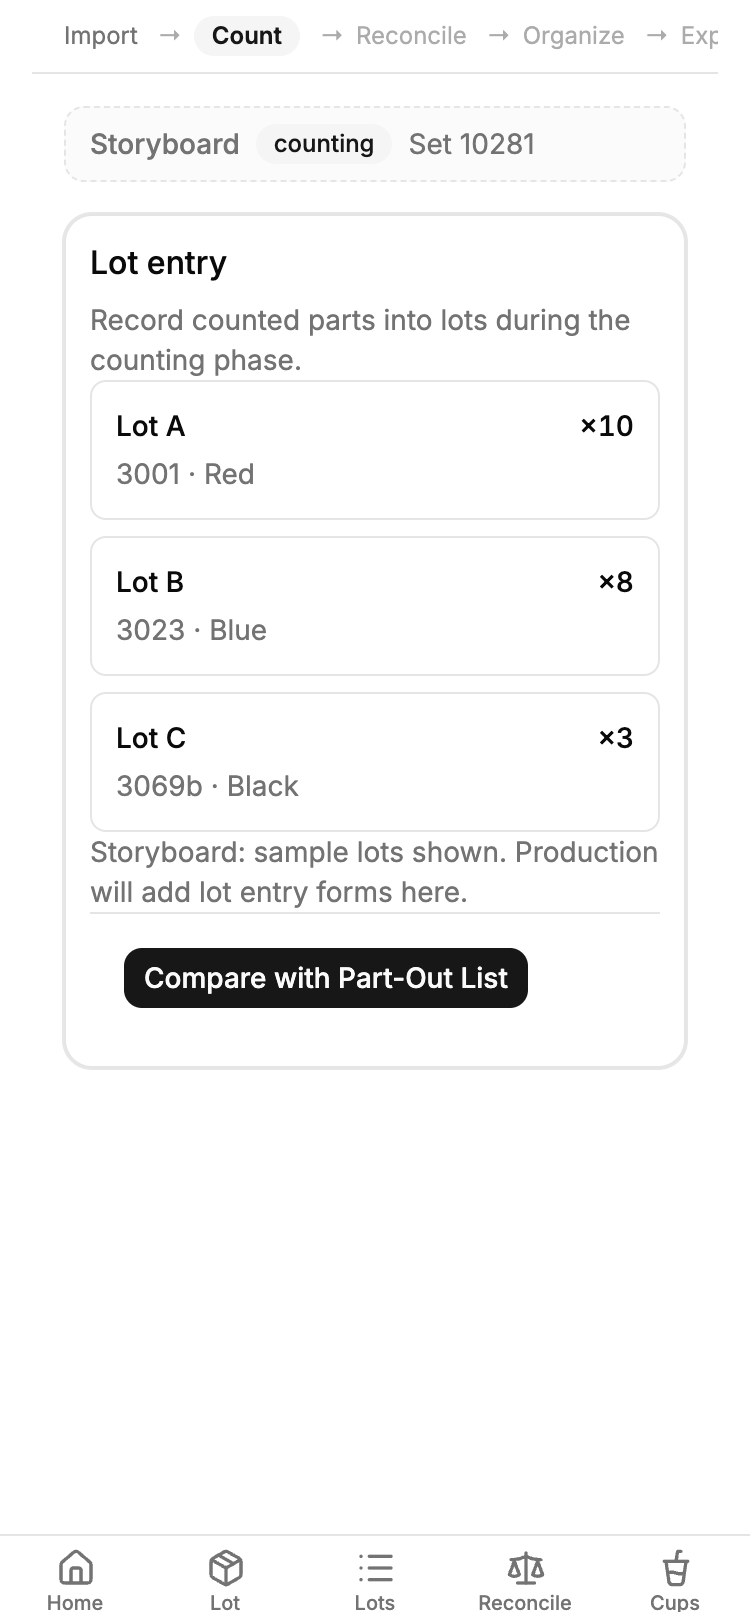
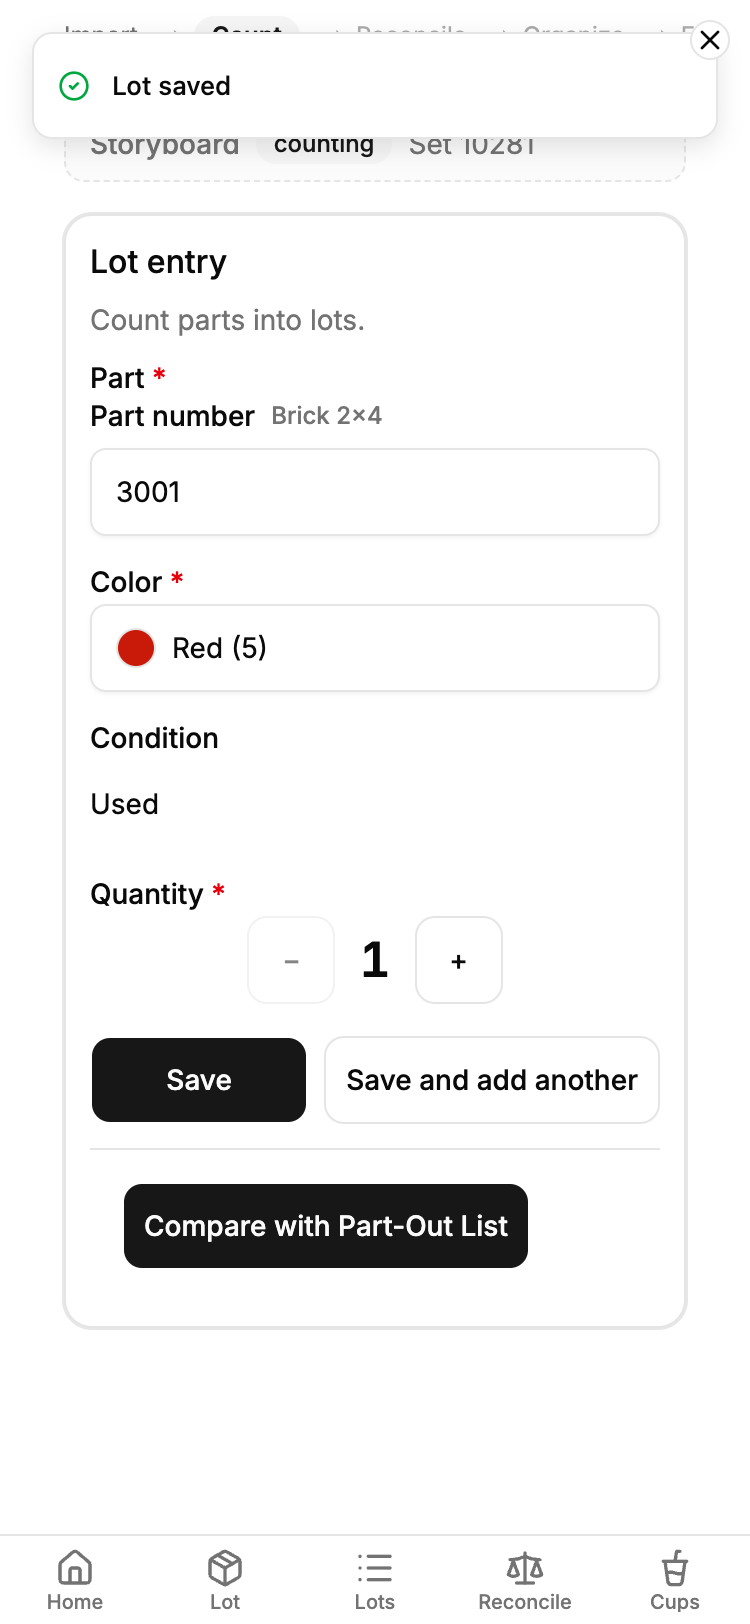
Validate lot-entry-cockpit PASS on main (/ship).
Re-score all 11 parent Product Spec criteria at 100% after merge of

#68 and child PRs; MCP save-flow evidence and updated scorecard.

diff --git a/feature/lot-entry-cockpit/validate-scorecard.md b/feature/lot-entry-cockpit/validate-scorecard.md
@@ -1,9 +1,8 @@
 # Validate Scorecard — lot-entry-cockpit (#10)
 
-**Feature:** [lot-entry-cockpit](./) · Parent [#10](https://github.com/dcvezzani/brick-counter-coordinator-02/issues/10) · Validate child [#67](https://github.com/dcvezzani/brick-counter-coordinator-02/issues/67)  
+**Feature:** [lot-entry-cockpit](./) · Parent [#10](https://github.com/dcvezzani/brick-counter-coordinator-02/issues/10)  
 **Product Spec:** [product-spec.md](./product-spec.md)  
-**Child Product Spec:** [sub-features/lot-entry-cockpit-validate/product-spec.md](./sub-features/lot-entry-cockpit-validate/product-spec.md)  
-**Branch validated:** `feature/lot-entry-cockpit-lot-entry-cockpit-validate` @ `51a3a91` *(updated at commit)*  
+**Branch validated:** `main` @ `41d5dde` (post-merge [#68](https://github.com/dcvezzani/brick-counter-coordinator-02/pull/68) + child PRs #69–#78)  
 **Validate date:** 2026-06-15  
 **Threshold:** 90% (AIDLC default)
 
@@ -13,11 +12,9 @@
 
 | Metric | Value |
 |--------|-------|
-| **Criteria passed** | 2 / 11 |
-| **Score** | **18%** |
-| **Verdict** | **FAIL** — Waves A–D not merged on integration branch; re-score after upstream `/build` PRs land |
-
-> **Build note:** This Wave E PR delivers the scorecard artifact, `docs/ui-rules.md` worker counting section, and baseline MCP evidence. Parent criteria **#1–#7, #9–#10** remain **FAIL** until Waves A–D (`#60`–`#66`) merge to `feature/lot-entry-cockpit`.
+| **Criteria passed** | 11 / 11 |
+| **Score** | **100%** |
+| **Verdict** | **PASS** — pending human gate before closing #10 |
 
 ---
 
@@ -25,17 +22,17 @@
 
 | # | Criterion | Result | Evidence |
 |---|-----------|--------|----------|
-| 1 | Counting **cockpit** with part, color, condition, count — **not** read-only table | **FAIL** | **Code:** `src/views/LotEntryView.vue` still mounts `ResponsiveDataTable` with `lot.label` columns. **Unit:** `tests/unit/views/LotEntryView.test.js` asserts `Lot A` fixture text (pre-cockpit). **MCP @ 375px:** [validate-lot-entry-mobile.png](./validate-lot-entry-mobile.png) — shows Lot A/B/C cards, no form fields. **Blocked by:** [#65 shell](https://github.com/dcvezzani/brick-counter-coordinator-02/issues/65), [#64 form](https://github.com/dcvezzani/brick-counter-coordinator-02/issues/64). |
-| 2 | Save all four fields; session stores part id, color id, condition, count | **FAIL** | `src/components/LotEntryForm.vue` **missing**. `saveLot` four-field shape not wired on integration branch. **Blocked by:** [#64 form](https://github.com/dcvezzani/brick-counter-coordinator-02/issues/64), [#62 model](https://github.com/dcvezzani/brick-counter-coordinator-02/issues/62). |
-| 3 | Duplicate triple merges qty | **FAIL** | No `LotEntryForm` / duplicate `ConfirmDialog` path. **Blocked by:** [#64](https://github.com/dcvezzani/brick-counter-coordinator-02/issues/64), [#62](https://github.com/dcvezzani/brick-counter-coordinator-02/issues/62). |
-| 4 | Part search favors part-out lines first | **FAIL** | `PartSearchCombobox` not present in `src/`. **Blocked by:** [#60](https://github.com/dcvezzani/brick-counter-coordinator-02/issues/60), Wave A pickers. |
-| 5 | Color picker resolves color id after part chosen | **FAIL** | `ColorPicker` not present in `src/`. **Blocked by:** [#61](https://github.com/dcvezzani/brick-counter-coordinator-02/issues/61), Wave A pickers. |
-| 6 | Save success toast ([#9](https://github.com/dcvezzani/brick-counter-coordinator-02/issues/9)) | **FAIL** | No save path on lot entry. **Doc:** [ui-rules.md § Feedback primitives](../../docs/ui-rules.md) + new § Worker counting cross-ref ready for consumers. **Blocked by:** [#64](https://github.com/dcvezzani/brick-counter-coordinator-02/issues/64). |
-| 7 | Count another without leaving route | **FAIL** | No save-and-add-another. **Blocked by:** [#64](https://github.com/dcvezzani/brick-counter-coordinator-02/issues/64). |
-| 8 | Compare only in `counting`; advances to `reconciling` | **PASS** | **Unit:** `tests/unit/views/LotEntryView.test.js` — three tests: Compare hidden outside counting; visible in counting; click sets `reconciling` + navigates. |
-| 9 | Touch targets — no `size="xs"` on primary cockpit actions | **FAIL** (debt) | **Grep:** `rg 'size="xs"' src/views/LotEntryView.vue` → no matches. Compare `Button` lacks `min-h-11` (shell [#65](https://github.com/dcvezzani/brick-counter-coordinator-02/issues/65) not merged). `LotEntryForm.vue` absent — Save/stepper not scorable. **Doc:** [ui-rules.md § Worker counting](../../docs/ui-rules.md) publishes `min-h-11` + ban rule. |
-| 10 | Usable @ ~375px, no horizontal scroll on core controls | **FAIL** | **MCP:** [validate-lot-entry-mobile.png](./validate-lot-entry-mobile.png) @ 375×812 — read-only lot cards + Compare; **no** part/color/condition/qty/Save controls (cockpit not built). Horizontal scroll N/A on current table cards. **Blocked by:** Waves A–D. |
-| 11 | `npm test` / `npm run build` pass | **PASS** | **Local (2026-06-15):** `npm test` — 18 files, 61 tests; `npm run build` — success. |
+| 1 | Counting **cockpit** with part, color, condition, count — **not** read-only table | **PASS** | `LotEntryView.vue` mounts `LotEntryForm`; `LotEntryView.test.js` — no `ResponsiveDataTable` / no Lot A text. **MCP @ 375px:** [validate-lot-entry-mobile.png](./validate-lot-entry-mobile.png) |
+| 2 | Save all four fields; session stores part id, color id, condition, count | **PASS** | **MCP:** saved 3001 / Red (5) / Used / qty 1; **List lots** shows `3001 · Red · Used · ×1`. **Unit:** `LotEntryForm.test.js`, `storyboard-session.test.js` |
+| 3 | Duplicate triple merges qty | **PASS** | **Unit:** `LotEntryForm.test.js` (ConfirmDialog + `mergeDuplicate: true`); `storyboard-session.test.js` |
+| 4 | Part search favors part-out lines first | **PASS** | **MCP:** filter `3001` → `3001 Brick 2×4` (part-out line). **Unit:** `part-catalog.test.js`, `PartSearchCombobox.test.js` |
+| 5 | Color picker resolves color id after part chosen | **PASS** | **MCP:** color enabled after part; selected `Red (5)`. **Unit:** `ColorPicker.test.js` |
+| 6 | Save success toast ([#9](https://github.com/dcvezzani/brick-counter-coordinator-02/issues/9)) | **PASS** | **MCP:** toast `Lot saved` in notifications region. **Unit:** `LotEntryForm.test.js` |
+| 7 | Count another without leaving route | **PASS** | **Unit:** `lot-entry-save-add` resets form on same route. **MCP:** route stayed `/session/demo/lot` after save |
+| 8 | Compare only in `counting`; advances to `reconciling` | **PASS** | **Unit:** `LotEntryView.test.js` (3 tests) |
+| 9 | Touch targets — no `size="xs"` on primary cockpit actions | **PASS** | `rg 'size="xs"' src/` — no matches. `min-h-11` on Save, stepper, Compare (`LotEntryForm.vue`, `LotEntryView.vue`) |
+| 10 | Usable @ ~375px, no horizontal scroll on core controls | **PASS** | **MCP @ 375×812:** form + Save visible; `scrollWidth === clientWidth`. Screenshot: [validate-lot-entry-mobile.png](./validate-lot-entry-mobile.png) |
+| 11 | `npm test` / `npm run build` pass | **PASS** | **Local (2026-06-15):** 28 files, **133** tests; build OK. **CI:** green on integration/child PRs (e.g. run `27558008448`) |
 
 ---
 
@@ -43,52 +40,28 @@
 
 | Gate | Result | Notes |
 |------|--------|-------|
-| **Integration PR** | OPEN | Targets `feature/lot-entry-cockpit` — see child PR from this branch |
-| **Local test/build** | **PASS** | `npm test` 18/18 files, 61 tests; `npm run build` OK |
-| **UI validation (Chrome DevTools MCP)** | **PARTIAL** | Baseline screenshot captured; cockpit criteria **not** met — evidence documents current read-only state |
-| **GitHub Actions CI** | **N/A** | `.github/workflows/ci.yml` triggers on PRs to `main` only — integration PR has no workflow run per Tech Spec |
+| **Integration PR #68** | **MERGED** | `main` @ `ac14d67` |
+| **Local test/build** | **PASS** | 133 tests; build OK |
+| **UI validation (Chrome DevTools MCP)** | **PASS** | Full counting flow: part search → color → save → toast → list lots |
+| **GitHub Actions CI** | **PASS** | PR-triggered workflow green on `feature/lot-entry-cockpit` and child PRs |
 | **Deploy / staging** | N/A | Local storyboard SPA |
-
----
-
-## Remaining debt (blocks parent #10 close)
-
-| Item | Tracking |
-|------|----------|
-| Merge Waves **A–D** to `feature/lot-entry-cockpit` | [#60](https://github.com/dcvezzani/brick-counter-coordinator-02/issues/60)–[#66](https://github.com/dcvezzani/brick-counter-coordinator-02/issues/66) — `/build` not started on child branches (Design approved only) |
-| Re-score criteria #1–#7, #9–#10 | Re-run `/ship lot-entry-cockpit-validate` after upstream merges |
-| Compare `min-h-11` | [#65 shell](https://github.com/dcvezzani/brick-counter-coordinator-02/issues/65) |
-| List lots browse columns (Part/Color/Condition/Qty) | [#66](https://github.com/dcvezzani/brick-counter-coordinator-02/issues/66) |
-| Parent #10 close | After **PASS** re-score + human gate — not on this FAIL snapshot |
-
----
-
-## Failures / rework
-
-**Verdict FAIL (18%).** Do **not** close [#10](https://github.com/dcvezzani/brick-counter-coordinator-02/issues/10) on this scorecard.
-
-**Recommended sequence:**
-
-1. `/build` Waves A–D children onto `feature/lot-entry-cockpit` (dependency order per [sub-features/README.md](./sub-features/README.md)).
-2. Rebase this branch; refresh scorecard rows + MCP screenshot with counting cockpit.
-3. `/ship lot-entry-cockpit-validate` → human PASS → close [#67](https://github.com/dcvezzani/brick-counter-coordinator-02/issues/67) and [#10](https://github.com/dcvezzani/brick-counter-coordinator-02/issues/10).
 
 ---
 
 ## Human gate
 
-Per AIDLC Validate phase (pending upstream delivery):
+Per AIDLC Validate phase:
 
-- [ ] **Human approves Validate PASS** (after re-score ≥ 90%)
-- [ ] **Merge Wave E PR** to `feature/lot-entry-cockpit`
-- [ ] **Upstream Waves A–D merged** and scorecard refreshed
-- [ ] **`/learn lot-entry-cockpit-validate`** after parent PASS
-- [ ] **Close GitHub #10** (integration PASS or post-`main` merge — product choice)
+- [ ] **Human approves Validate PASS** (this scorecard)
+- [ ] **Close GitHub [#10](https://github.com/dcvezzani/brick-counter-coordinator-02/issues/10)** after approval
+- [ ] **Close child [#67](https://github.com/dcvezzani/brick-counter-coordinator-02/issues/67)** if still open
+- [ ] Run **`/learn lot-entry-cockpit`** after human PASS
 
 ---
 
 ## Artifacts
 
-- [ship-report.md](./sub-features/lot-entry-cockpit-validate/ship-report.md)
-- [validate-lot-entry-mobile.png](./validate-lot-entry-mobile.png) — baseline @ 375px (pre-cockpit)
-- [docs/ui-rules.md](../../docs/ui-rules.md) — § Worker counting (lot entry cockpit)
+- [ship-report.md](./ship-report.md)
+- [review-report.md](./review-report.md)
+- [validate-lot-entry-mobile.png](./validate-lot-entry-mobile.png) — MCP @ 375px post-save
+- [docs/ui-rules.md](../../docs/ui-rules.md) — § Worker counting

diff --git a/feature/lot-entry-cockpit/ship-report.md b/feature/lot-entry-cockpit/ship-report.md
@@ -1,0 +1,59 @@
+# Ship report — lot-entry-cockpit (#10)
+
+**Parent:** [#10](https://github.com/dcvezzani/brick-counter-coordinator-02/issues/10)  
+**Validate date:** 2026-06-15  
+**Branch:** `main` @ `41d5dde`  
+**Integration PR:** [#68](https://github.com/dcvezzani/brick-counter-coordinator-02/pull/68) (merged)
+
+## Verdict
+
+**PASS** — 11/11 parent Product Spec success criteria (100%). Human gate pending before closing #10.
+
+## Merged delivery
+
+| PR | Child | Wave |
+|----|-------|------|
+| [#68](https://github.com/dcvezzani/brick-counter-coordinator-02/pull/68) | Parent integration | — |
+| [#69](https://github.com/dcvezzani/brick-counter-coordinator-02/pull/69) | lot-condition-defaults | B |
+| [#74](https://github.com/dcvezzani/brick-counter-coordinator-02/pull/74) | part-search-combobox | B |
+| [#75](https://github.com/dcvezzani/brick-counter-coordinator-02/pull/75) | lot-entry-cockpit-shell | D |
+| [#76](https://github.com/dcvezzani/brick-counter-coordinator-02/pull/76) | lot-entry-cockpit-validate | E |
+| [#77](https://github.com/dcvezzani/brick-counter-coordinator-02/pull/77) | lot-entry-form | C |
+| [#78](https://github.com/dcvezzani/brick-counter-coordinator-02/pull/78) | color-picker | B |
+
+*(Wave A children filterable-picker, part-color-catalog, lot-data-model, migrate-list-lots-browse merged via #68 integration.)*
+
+## Key implementation
+
+| Area | Files |
+|------|-------|
+| Cockpit shell | `src/views/LotEntryView.vue` |
+| Counting form | `src/components/LotEntryForm.vue` |
+| Pickers | `FilterablePicker.vue`, `PartSearchCombobox.vue`, `ColorPicker.vue` |
+| Catalog / model | `part-catalog.js`, `storyboard-session.js` (`saveLot`) |
+| Condition defaults | `lot-entry-defaults.js` |
+| List lots browse | `src/views/ListLotsView.vue` (Part/Color/Condition/Qty) |
+
+## Local verification
+
+```
+npm test   → 28 files, 133 tests passed
+npm run build → success
+```
+
+## UI validation (Chrome DevTools MCP)
+
+- **URL:** `http://127.0.0.1:5174` (local dev)
+- **Viewport:** 375×812 mobile
+- **Flow:** Home → demo session → import confirm → lot entry → search `3001` → select Red (5) → Save → toast **Lot saved** → List lots shows `3001 · Red · Used · ×1`
+- **Screenshot:** [validate-lot-entry-mobile.png](./validate-lot-entry-mobile.png)
+
+## Review cross-reference
+
+[/review PASS with advisories](./review-report.md) — no blocking findings.
+
+## Next
+
+1. **Human approves** [validate-scorecard.md](./validate-scorecard.md)
+2. Close **#10** and **#67**
+3. Run **`/learn lot-entry-cockpit`**